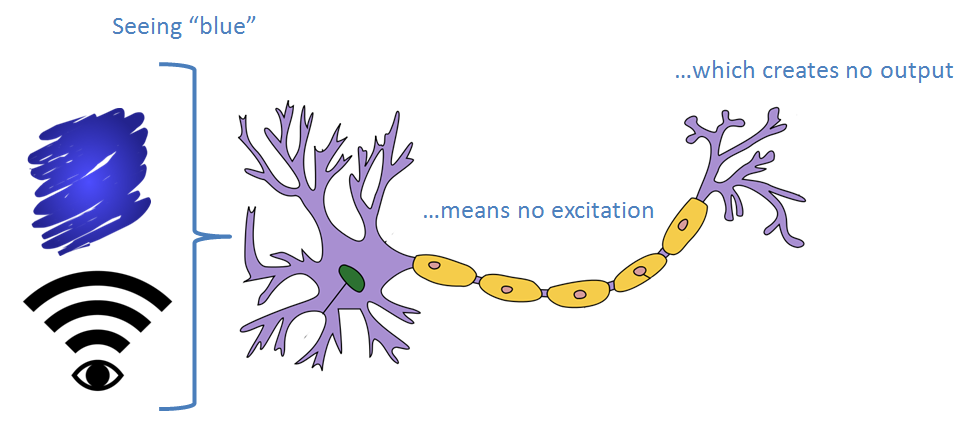
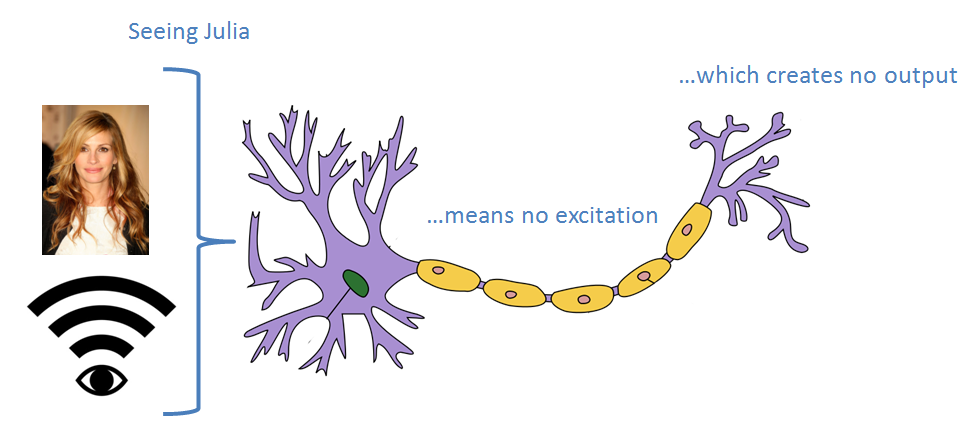
- Working on CS 161 week 10

diff --git a/classes/spring-2014/cs-161/week-10.html b/classes/spring-2014/cs-161/week-10.html
@@ -124,7 +124,8 @@
               <br/>
               <p>Let's root neural networks in a familiar problem: classification.</p>
               <p>Remember that classification is the task of deciding whether our input attributes is indicative of a particular class, and returns a yes / no answer.</p>
-              <p class='example'>Take, for example, a very simple neuron which (through some process irrelevant to us) gets activated whenever someone sees the color red:</p>
+              <p class='example'>Take, for example, a very simple neuron which (through some process irrelevant to us) gets activated whenever you're looking at Jennifer Aniston (this was a real study, look
+                it up):</p>
               <br/>
               <p>This might look like the following:</p>
               <br/>
@@ -133,29 +134,178 @@
               </div>
               <br/>
               <p>(somewhere, someone who actually studies neuroscience is reading this and cringing)</p>
-              <p>However, if that same neuron were to see the color &quot;blue&quot; it might not activate!</p>
+              <p>However, if that same neuron were to respond to input of seeing Julia Roberts instead (which is, I believe, what they did in the study) it might not activate!</p>
               <br/>
               <div class='fit-pres text-center'>
                 <img src='../../../assets/images/spring-2014/cs-161/week-10/neural-3.PNG' />
               </div>
               <br/>
               <p>It would be nice, then, if we could take a bunch of neurons with certain activation patterns, and combine their outputs to serve our computation interests.</p>
-              <p>For example, if I had one neuron that activates when it sees red, and another that activates when it sees something circular, we might have them both connected to a third neuron that 
-                acts as a classifier for seeing a &quote;ball&quot; (like the toy... because all toy balls are red... /shrug)</p>
-              <p>This might look like:</p>
-              <br/>
-              <div class='fit-pres text-center'>
-                <img src='../../../assets/images/spring-2014/cs-161/week-10/neural-4.PNG' />
-              </div>
+              <p>Let's look at the basic case first...</p>
               <br/>
               
               <p>The anology to our neural networks is as follows:</p>
               <p class='definition'>Artificial neural networks have <strong>input</strong> elements representing our attributes of interest (like the dendrites).</p>
               <p class='definition'>Artificial neurons have <strong>activation functions</strong> that determine whether or not, based on the input, they will fire.</p>
-              <p class='definition'>Artificial neural networks have <strong>output</strong> elements that can be used for classification or simply returning results of the internal computations.</p>
+              <p class='definition'>Artificial neural networks have <strong>output</strong> elements that can be used for classification or simply returning results of the internal computations...</p>
               <br/>
+              <p>Let's look at a very simple artificial neuron and then look at how to use it.</p>
+              <div class='fit-pres text-center'>
+                <img src='../../../assets/images/spring-2014/cs-161/week-10/neural-4.PNG' />
+              </div>
+              <br/>
+              <p>What you choose for the activation function is up to you, but typical choices are the following:</p>
+              <p class='definition'>An activation function that is a <strong>step / threshold function</strong> will only produce an output when some minimum value is reached for its sum of weighted inputs.</p>
+              <br/>
+              <p>Typically, step functions output 0 if we haven't reached some threshold yet, or 1 otherwise.</p>
+              <p>These bear a close semblance to how actual neurons operate.</p>
+              <br/>
+              <p class='definition'>An activation function that is a <strong>logistic function</strong> (the inverse of the natural logit function) produces an s-curve used to convert the logarithm of
+                odds into a probability (positive inputs approach a ceiling of 1, negative inputs approach a floor of -1).</p>
+              
+              <br/>
+              <p>Why don't we look at a single node neuron and see how this all fits together.</p>
+              <p>Here are the steps for computation at a single neuron:</p>
+<pre class='prettyprint'>
+  ; Step One: Sum weighted inputs
+  ; for n input links
+    
+         n
+  in_j = &Sigma; w_i * a_i
+       i = 0
+       
+  ; Step Two: Apply g(in_j)
+  ; where g is the activation function
+  
+  a_j = g(in_j)
+  
+  ; Step Three: Propagate the output
+  ; a_j to any output links
+</pre>
+              <br/>
+              <p class='example'>What will the following neuron output for the given inputs, weights, and activation function?</p>
+              <div class='fit-pres text-center'>
+                <img src='../../../assets/images/spring-2014/cs-161/week-10/neural-5.PNG' />
+              </div>
+              <br/>
+              <p class='definition'>The above neuron, which is a single unit whose activation function is a step function, is called a <strong>perceptron</strong>.</p>
+              <br/>
+              <p>Some things to notice:</p>
+              <ul class='indent-1'>
+                <li><p>Weights can be negative (to immitate an inhibitory effect like our own neurons have)</p></li>
+                <li><p>Weights can be 0</p></li>
+                <li><p>(not shown) Weights can be any real number, not necessarily percentage values</p></li>
+                <li><p>The bias input value is always 1 though its weight can be modified</p></li>
+                <li><p>Other input values can be whatever you'd like to suit the problem at hand</p></li>
+              </ul>
+              <br/>
+              <p class='example'>What will the following neuron output for the given inputs, weights, and activation function?</p>
+              <div class='fit-pres text-center'>
+                <img src='../../../assets/images/spring-2014/cs-161/week-10/neural-6.PNG' />
+              </div>
+              <br/>
+              <p class='definition'>The above neuron, which is a single unit whose activation function is a logistic function, is called a <strong>sigmoid perceptron</strong>, sometimes used as a probability
+                calculator.</p>
+              <br/>
+              <p class='definition'>The <strong>bias</strong> input is simply a means of shifting our sigmoid curve left and right by manipulating its weight.</p>
+              <br/>
+              <p>Observe how the output of a sigmoid perceptron changes by manipulating the bias input:</p>
+<pre class='prettyprint'>
+  ; Say for perceptron n with 2 inputs
+  ; and 1 bias input:
+  
+  ; (where sig() is the sigmoid logistic function)
+  a_n = sig(w_i * a_i +
+            w_j * a_j +
+            w_0 * a_0)  ; Here's the bias term
+        
+  a_n = sig(0.3 * 1 +
+            0.2 * 1 +
+            0.0 * 1)
+      = 0.62
+  
+  ; Change w_0 to 0.5 shifts right
+  a_n = sig(0.3 * 1 +
+            0.2 * 1 +
+            0.5 * 1)
+      = 0.73
+      
+  ; Change w_0 to -0.5 shifts left
+  a_n = sig(0.3 * 1 +
+            0.2 * 1 +
+            -0.5 * 1)
+      = 0.5
+</pre>
+              <br/>
+              <p>Visually, we can see the shift as the following (depicted below: only one input and taken from a really good SO article on Bias inputs, linked):</p>
+              <a href='http://stackoverflow.com/questions/2480650/role-of-bias-in-neural-networks' target='_blank'>
+                <div class='fit-pres text-center'>
+                  <img src='../../../assets/images/spring-2014/cs-161/week-10/neural-7.PNG' />
+                </div>
+              </a>
+              <br/>
+              <p>Typically you will have one bias input connected to all non-input neurons, though you can have one per level as well.</p>
+              <br/>
+              <p>So, we see that our artificial neurons are really just <strong>non-linear integrators</strong> (since we sum the inputs and then apply non-linear functions to that sum).</p>
+              <p>Succinctly, the output of some neuron n is given by:</p>
+<pre class='prettyprint'>
+  ; For i input links:
+  
+  a_n = g (&Sigma; (w_i * x_i))
+           i
+</pre>
+              <br/>
+              <p>Now there is one problem to discuss with perceptrons. Let's condider the perceptron that performs a logical OR, i.e., outputs 1 if either of its inputs are 1:</p>
+              <br/>
+              
+              <br/>
+              <p class='example'>Consider the following perceptron (step activation function) that implements the <strong>majority function</strong>, outputting 1 whenever the majority (MORE than half)
+                of its inputs are also 1. Determine the weight of the bias input for m inputs (each with weight and activation values of 1).</p>
+              <br/>
+              <div class='fit-pres text-center'>
+                <img src='../../../assets/images/spring-2014/cs-161/week-10/neural-8.PNG' />
+              </div>
+              <br/>
+              <p>Need a hint? Consider m = 10 with 2 separate cases: in Case 1, 5 of those inputs are 1 and the others 0; in Case 2, 6 of those inputs are 1 and the others 0.</p>
+              <p class='question' name='neuro-q0'>Click for solution.</p>
+              <p class='answer' name='neuro-q0'><code class='prettyprint'>w_0 = - m / 2</code> since, for even m, you need to exclude the m / 2 case from activating the neuron</p>
+
+              <br/>
+              <h3>Feed-Forward Networks</h3>
+              <p>Now that we have some concept of the individual perceptrons, we can talk about tying them together to handle interesting tasks!</p>
+              <p class='definition'>A <strong>feed-forward neural network</strong> is one with some number of input and output nodes with edges that form a directed, acyclic graph.</p>
+              <br/>
+              <p>In other words, our feed-forward networks only propagate their outputs towards the output nodes.</p>
+              <p>As such, we can connect layer after layer of neuron to one another with the outputs of neurons at level i serving as inputs to neurons at level i+1.</p>
+              <p class='definition'>A network's <strong>input layer</strong> for some vector of inputs X = (x1, x2, ...) sets each neuron's output in the input layer to its corresponding input value.<br/><br/>
+                So, for input neurons 1, 2, ..., the outputs of each is: (a1, a2, ..., an) = (x1, x2, ..., xn)
+              </p>
+              <p class='definition'>A network's <strong>hidden layer</strong> performs the internal computation for our network's task and are all neurons between the input and output layers.</p>
+              <br/>
+              <div class='fit-pres text-center'>
+                <img src='../../../assets/images/spring-2014/cs-161/week-10/neural-9.PNG' />
+              </div>
+              <p>Here's an example:</p>
+              <p class='example'>Say we had a simple, 3 layer network with 2 inputs, A and B, and then 4 perceptrons (each with activation function g, which is a step function) with various output weights.
+                What is the output, C and D, when A = 1 and B = 2? Assume a 0 weight for the bias input.</p>
+              <br/>
+              <div class='fit-pres text-center'>
+                <img src='../../../assets/images/spring-2014/cs-161/week-10/neural-9.PNG' />
+              </div>
+              <br/>
+              <p>NOTE: In the above, our input layer still consists of neurons who just happen to be set to our input</p>
             </div>
             <hr/>
+            
+            <!-- TODO: PLAN: Complexities -->
+            <!-- TODO: BAYES: Complexities, exact inference -->
+            
+            <!-- TODO: NN: feed-forward network -->
+            <!-- TODO: NN: issues with linear separation -->
+            <!-- TODO: NN: hidden layer -->
+            <!-- TODO: NN: multiple outputs -->
+            <!-- TODO: NN: classification -->
+            <!-- TODO: NN: learning / loss minimization -->
             
             
             <a class='btn btn-default pull-right hidden-print' href='javascript:window.print();'>
